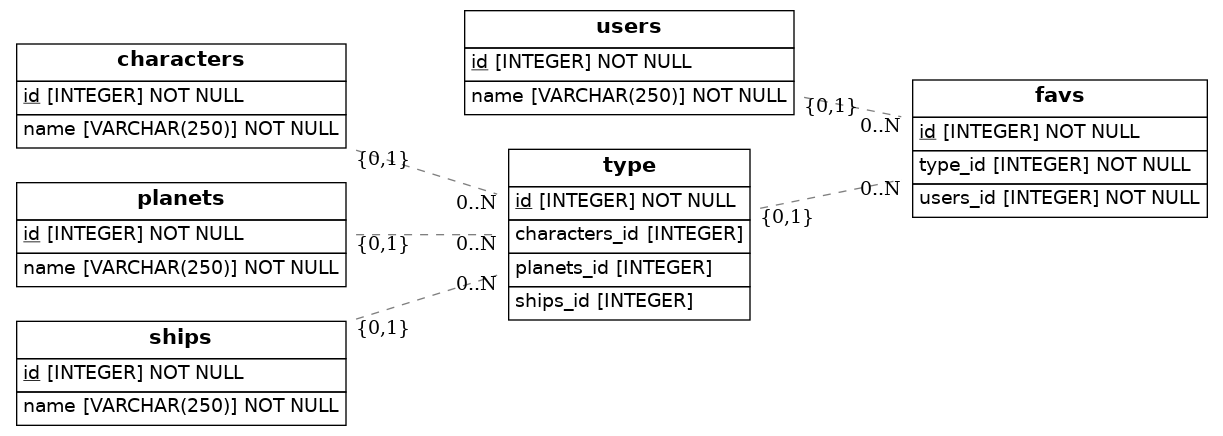
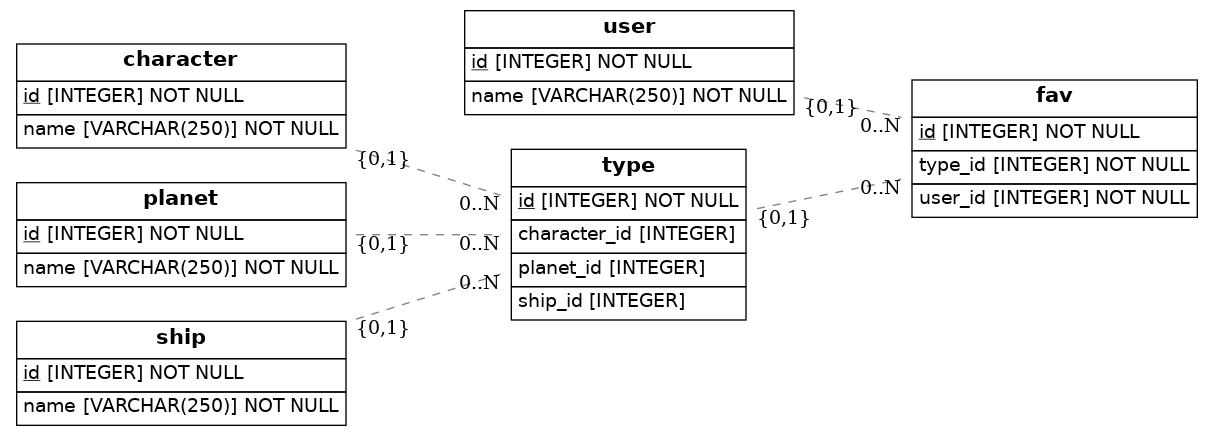
Better Practics

diff --git a/src/models.py b/src/models.py
@@ -8,39 +8,40 @@ from eralchemy2 import render_er
 
 Base = declarative_base()
 
-class Users(Base):
-    __tablename__ = 'users'
+class User(Base):
+    __tablename__ = 'user'
     id = Column(Integer, primary_key=True)
     name = Column(String(250), nullable=False)
 
-class Favs(Base):
-    __tablename__ = 'favs'
+class Fav(Base):
+    __tablename__ = 'fav'
     id = Column(Integer, primary_key=True)
-    users_id = Column(Integer, ForeignKey('users.id'), nullable=False)
+    user_id = Column(Integer, ForeignKey('user.id'), nullable=False)
     type_id = Column(Integer, ForeignKey('type.id'), nullable=False)
+    user = relationship(User)
     
 
-class Characters(Base):
-    __tablename__ = 'characters'
+class Character(Base):
+    __tablename__ = 'character'
     id = Column(Integer, primary_key=True)
     name = Column(String(250), nullable=False)
 
-class Planets(Base):
-    __tablename__ = 'planets'
+class Planet(Base):
+    __tablename__ = 'planet'
     id = Column(Integer, primary_key=True) 
     name = Column(String(250), nullable=False)  
 
-class Ships(Base):
-    __tablename__ = 'ships'
+class Ship(Base):
+    __tablename__ = 'ship'
     id = Column(Integer, primary_key=True)
     name = Column(String(250), nullable=False)  
 
 class Type(Base):
     __tablename__ = 'type'
     id = Column(Integer, primary_key=True)
-    characters_id = Column(Integer, ForeignKey('characters.id'), nullable=True)
-    planets_id = Column(Integer, ForeignKey('planets.id'), nullable=True)
-    ships_id = Column(Integer, ForeignKey('ships.id'), nullable=True)
+    character_id = Column(Integer, ForeignKey('character.id'), nullable=True)
+    planet_id = Column(Integer, ForeignKey('planet.id'), nullable=True)
+    ship_id = Column(Integer, ForeignKey('ship.id'), nullable=True)
 
     def to_dict(self):
         return {}
